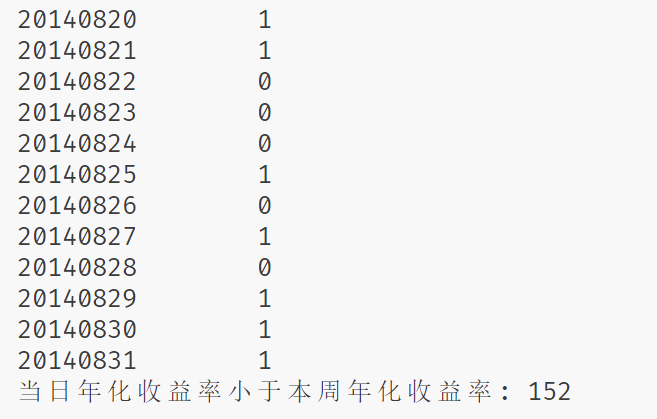
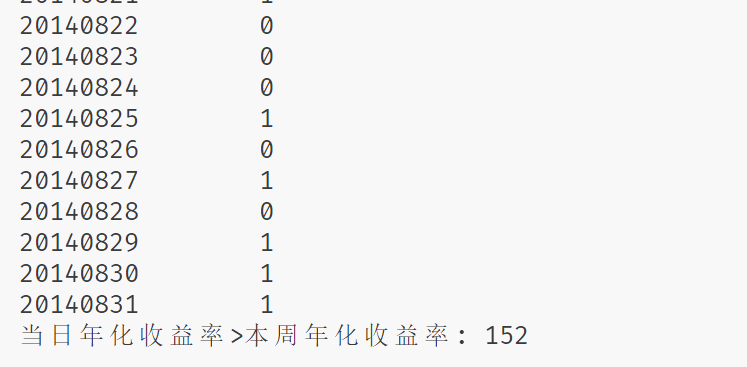
final

diff --git a/src/main/java/com/example/hadoop/TransactionInfluenceAnalysis.java b/src/main/java/com/example/hadoop/TransactionInfluenceAnalysis.java
@@ -68,7 +68,7 @@ public class TransactionInfluenceAnalysis {
         @Override
         protected void cleanup(Context context) throws IOException, InterruptedException {
             // 在任务结束时输出全局计数器的值
-            String globalResult = "当日年化收益率小于本周年化收益率: " + globalOneCount + "\n";
+            String globalResult = "当日年化收益率>本周年化收益率: " + globalOneCount + "\n";
             context.write(new Text(globalResult), null); // 输出全局1的数量
         }
     }
